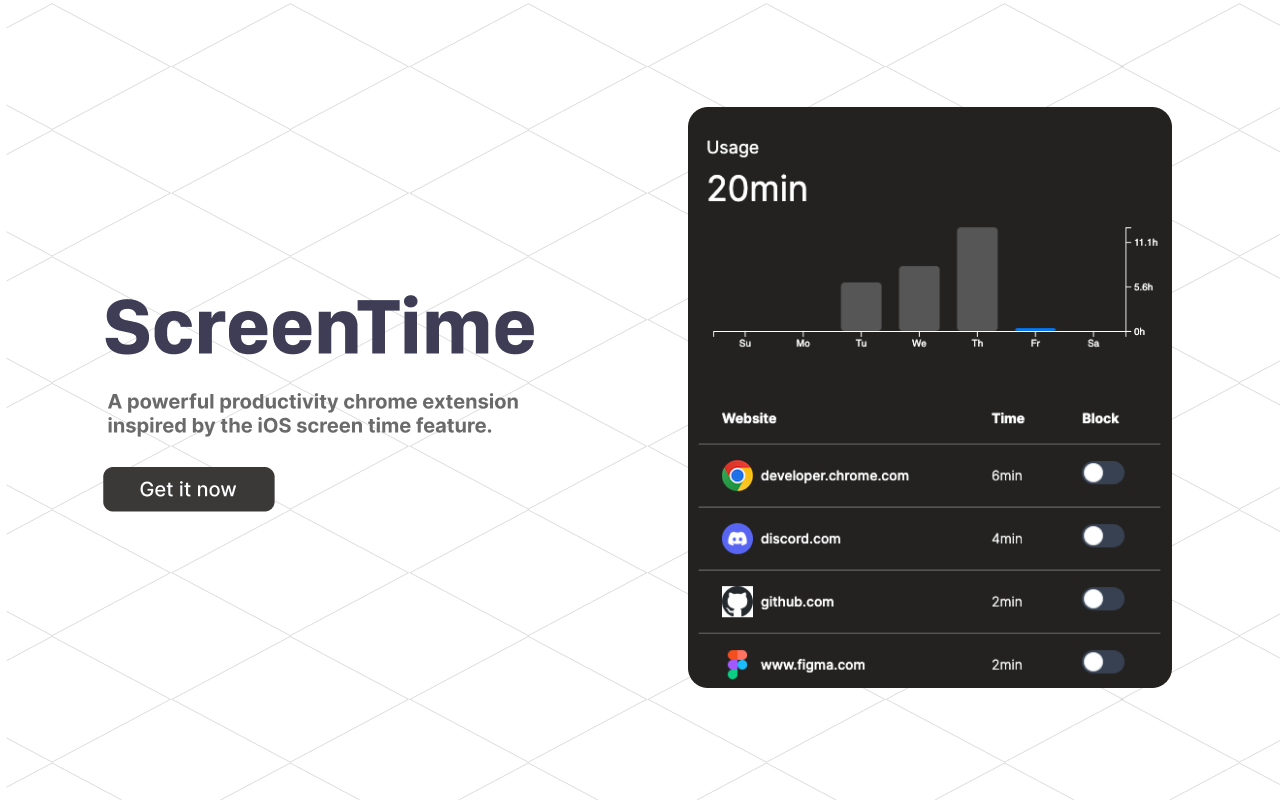
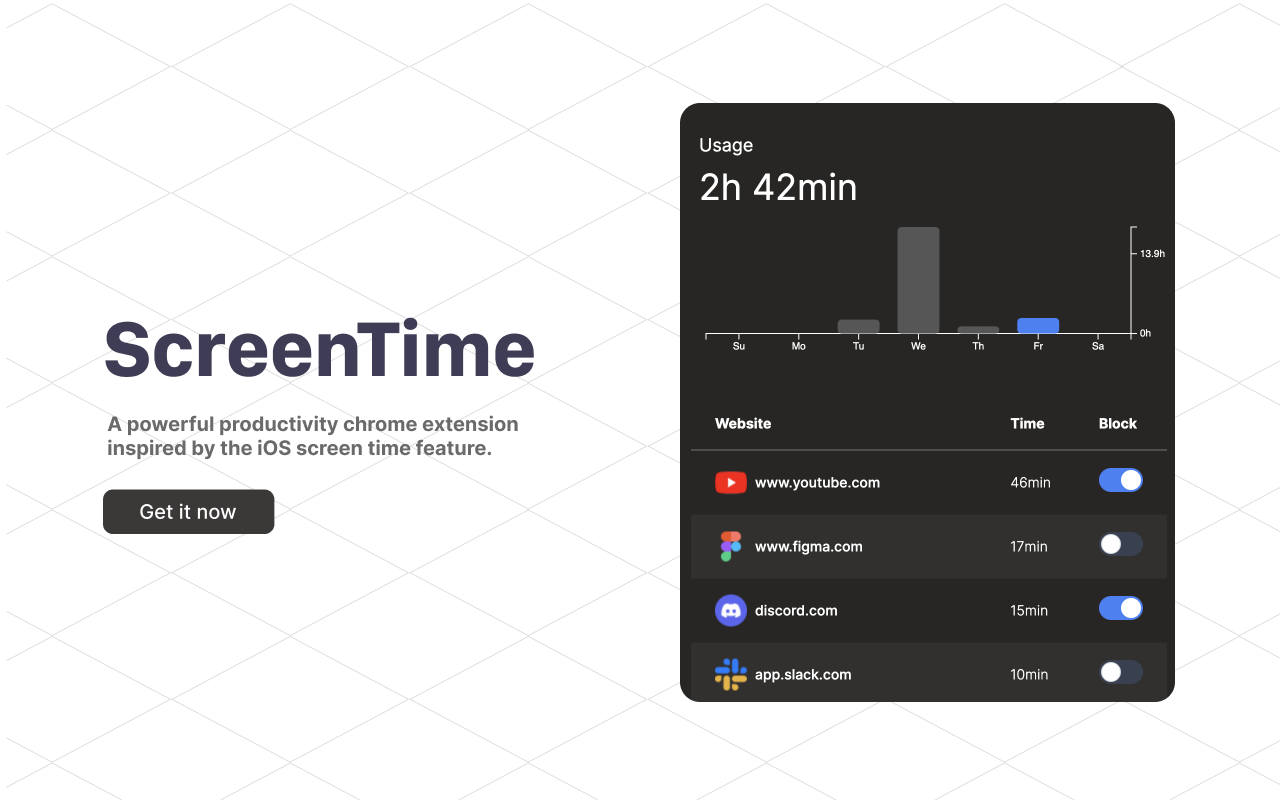
port limitify_data to 7 different objects

diff --git a/public/background.js b/public/background.js
@@ -83,7 +83,7 @@ const chromeurls = [
 
 const storage = {
   add(value) {
-    const key = "limitify_data";
+    const key = "data";
     return new Promise((resolve) => {
       const startDate = new Date(value.startTime);
       const endDate = new Date(value.endTime);
@@ -110,7 +110,13 @@ const storage = {
               start: startweek.getTime(),
               end: endweek.getTime(),
             }),
-            this.set(key, {}),
+            this.set(key + "_0", {}),
+            this.set(key + "_1", {}),
+            this.set(key + "_2", {}),
+            this.set(key + "_3", {}),
+            this.set(key + "_4", {}),
+            this.set(key + "_5", {}),
+            this.set(key + "_6", {}),
           ];
 
           Promise.all(promises).then(() => {
@@ -156,29 +162,29 @@ const storage = {
           // at this point, we know that
           // startDate.getDay() == endDate.getDay()
 
-          this.get(key).then((result) => {
-            const dayOfWeek = startDate.getDay().toString();
-            if (!result[dayOfWeek]) {
-              result[dayOfWeek] = {};
+          const dayOfWeek = startDate.getDay().toString();
+          this.get((key + "_" + dayOfWeek)).then((result) => {
+            if (Object.keys(result).length === 0) {
+              result = {};
             }
-            if (!result[dayOfWeek][value.url]) {
-              result[dayOfWeek][value.url] = 0;
+            if (!result.hasOwnProperty(value.url)) {
+              result[value.url] = 0;
             }
 
-            if (!result[dayOfWeek]["total"]) {
-              result[dayOfWeek]["total"] = 0;
+            if (!result.hasOwnProperty("total")) {
+              result["total"] = 0;
             }
 
             var toadd =
               Math.abs(startDate.getTime() - endDate.getTime()) / 1000;
-            result[dayOfWeek][value.url] += toadd;
-            result[dayOfWeek]["total"] += toadd;
+            result[value.url] += toadd;
+            result["total"] += toadd;
 
             DEBUG
               ? console.log("+" + toadd + " seconds to " + value.url)
               : null;
 
-            this.set(key, result).then(() => {
+            this.set((key + "_" + dayOfWeek), result).then(() => {
               resolve();
             });
           });
@@ -235,19 +241,31 @@ chrome.runtime.onInstalled.addListener(() => {
   console.log("endweek set to: " + endweek.toString())
 
   Promise.all([
-    storage.get("limitify_data"),
+    storage.get("data_0"),
+    storage.get("data_1"),
+    storage.get("data_2"),
+    storage.get("data_3"),
+    storage.get("data_4"),
+    storage.get("data_5"),
+    storage.get("data_6"),
+
     storage.get("limitify_blocked"),
     storage.get("limitify_curweek"),
     storage.get_local("limitify_curtab"),
   ])
-    .then(([limitifyData, limitifyBlocked, limitifyCurweek, limitifyCurtab]) => {
-      console.log("limitifyData: " + JSON.stringify(limitifyData));
+    .then(([data0, data1, data2, data3, data4, data5, data6, limitifyBlocked, limitifyCurweek, limitifyCurtab]) => {
+      console.log("sunday: " + JSON.stringify(data0));
+      console.log("monday: " + JSON.stringify(data1));
+      console.log("tuesday: " + JSON.stringify(data2));
+      console.log("wednesday: " + JSON.stringify(data3));
+      console.log("thursday: " + JSON.stringify(data4));
+      console.log("friday: " + JSON.stringify(data5));
+      console.log("saturday: " + JSON.stringify(data6));
       console.log("limitifyBlocked: " + JSON.stringify(limitifyBlocked));
       console.log("limitifyCurweek: " + JSON.stringify(limitifyCurweek));
       console.log("limitifyCurtab: " + JSON.stringify(limitifyCurtab));
-
-      Object.keys(limitifyData).length === 0 ? storage.set("limitify_data", {}) : null;
       
+      storage.set("limitify_data", {});
       Object.keys(limitifyBlocked).length === 0 ? storage.set("limitify_blocked", {}) : null;
 
       Object.keys(limitifyCurweek).length === 0 ? storage.set("limitify_curweek", 

diff --git a/src/pages/index.tsx b/src/pages/index.tsx
@@ -62,47 +62,76 @@ export default function Home() {
     if (typeof window !== "undefined") {
       Promise.all([
         import("../../public/storage.js").then((storage) =>
-          storage.default.get("limitify_data")
+          storage.default.get("data_0")
+        ),
+        import("../../public/storage.js").then((storage) =>
+          storage.default.get("data_1")
+        ),
+        import("../../public/storage.js").then((storage) =>
+          storage.default.get("data_2")
+        ),
+        import("../../public/storage.js").then((storage) =>
+          storage.default.get("data_3")
+        ),
+        import("../../public/storage.js").then((storage) =>
+          storage.default.get("data_4")
+        ),
+        import("../../public/storage.js").then((storage) =>
+          storage.default.get("data_5")
+        ),
+        import("../../public/storage.js").then((storage) =>
+          storage.default.get("data_6")
         ),
         import("../../public/storage.js").then((storage) =>
           storage.default.get("limitify_blocked")
         ),
-      ]).then(([result, blockedResult]) => {
-        if (result) {
-          var curDate = new Date();
+      ]).then(([data0, data1, data2, data3, data4, data5, data6, blockedResult]) => {
+        
+        var tempAllData : ScreenTime = {
+          "0": data0,
+          "1": data1,
+          "2": data2,
+          "3": data3,
+          "4": data4,
+          "5": data5,
+          "6": data6,
+        };
 
-          setSelectedBarIndex(curDate.getDay());
-          setTodayIndex(curDate.getDay());
-          setAllData(result);
+        var curDate = new Date();
 
-          // Process "limitify_data"
-          var todaysData: { [key: string]: number } =
-            result[curDate.getDay().toString()] || {};
-          var sortedData = Object.entries(todaysData).sort(
-            (a, b) => b[1] - a[1]
-          );
-          todaysData = Object.fromEntries(sortedData);
-          setProcessedData(todaysData);
-          
-          console.log("today's data: ");
-          console.log(todaysData);
+        setSelectedBarIndex(curDate.getDay());
+        setTodayIndex(curDate.getDay());
+        setAllData(tempAllData);
 
-          // Process "limitify_blocked"
-          if (blockedResult) {
-            setBlockedData(blockedResult);
-          }
+        // Process tempAllData
+        var todaysData: { [key: string]: number } =
+          tempAllData[curDate.getDay().toString()] || {};
 
-          var weekData = [];
-          weekData.push(result["0"]?.total || 0);
-          weekData.push(result["1"]?.total || 0);
-          weekData.push(result["2"]?.total || 0);
-          weekData.push(result["3"]?.total || 0);
-          weekData.push(result["4"]?.total || 0);
-          weekData.push(result["5"]?.total || 0);
-          weekData.push(result["6"]?.total || 0);
+        var sortedData = Object.entries(todaysData).sort(
+          (a, b) => b[1] - a[1]
+        );
+        todaysData = Object.fromEntries(sortedData);
+        setProcessedData(todaysData);
+        
+        console.log("today's data: ");
+        console.log(todaysData);
 
-          setWeekData(weekData);
+        // Process "limitify_blocked"
+        if (blockedResult) {
+          setBlockedData(blockedResult);
         }
+
+        var weekData = [];
+        weekData.push(tempAllData["0"]?.total || 0);
+        weekData.push(tempAllData["1"]?.total || 0);
+        weekData.push(tempAllData["2"]?.total || 0);
+        weekData.push(tempAllData["3"]?.total || 0);
+        weekData.push(tempAllData["4"]?.total || 0);
+        weekData.push(tempAllData["5"]?.total || 0);
+        weekData.push(tempAllData["6"]?.total || 0);
+
+        setWeekData(weekData);
+      
 
         setLoading(false);
       });
